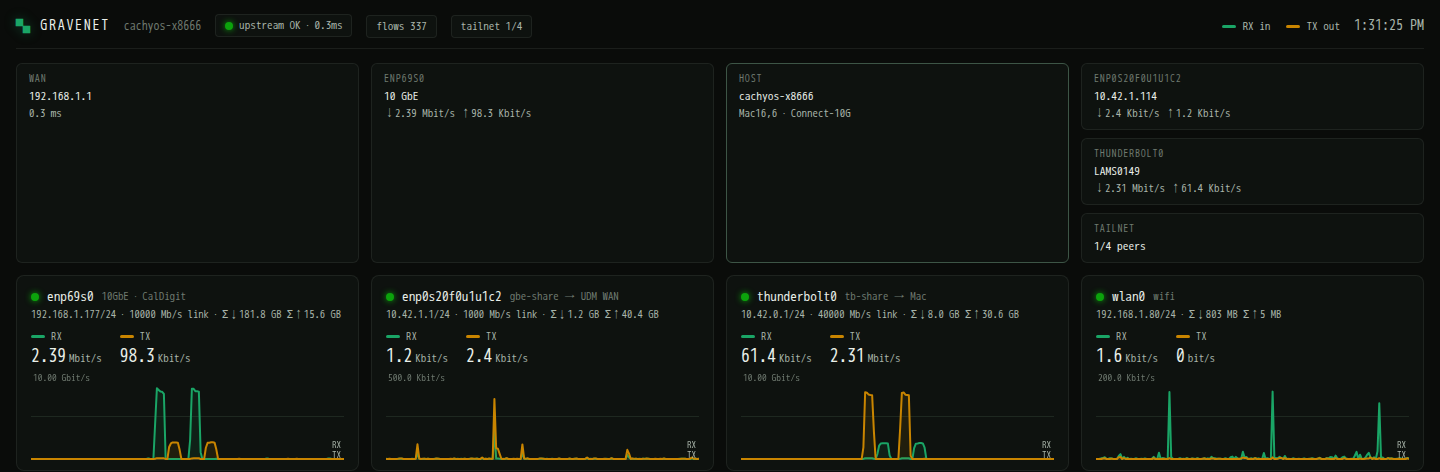
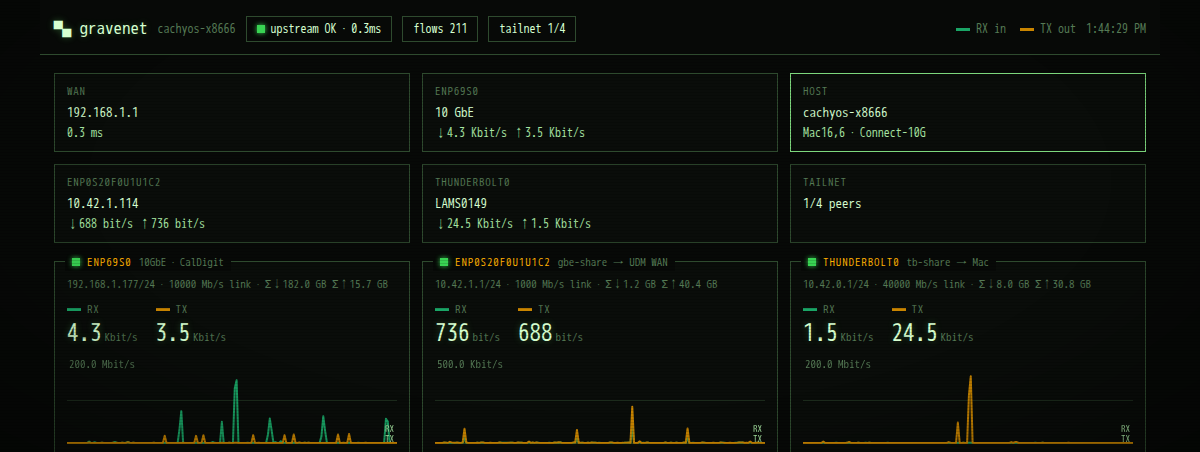
gravenet: adopt the grave-term skin (#128)
The /net page had its own dark-neutral theme; it now uses the same
tokens and chrome as the gravedecay dashboard — phosphor ink, amber
panel titles sitting on TUI borders, status squares, scanlines +
vignette, 1120px centered column, bracket-style badges. Chart series
stay the validated darker steps of the skin's green/amber (the raw
accents are too bright to pass the CVD/lightness gate on this
surface). README screenshot re-shot to match.

diff --git a/web/net/index.html b/web/net/index.html
@@ -5,131 +5,108 @@
 <meta name="viewport" content="width=device-width, initial-scale=1">
 <title>gravenet</title>
 <style>
-  /* dark-only by design — phosphor ops console */
-  :root {
-    color-scheme: dark;
-    --page:       #0a0c0a;
-    --surface:    #0e120f;   /* validated chart surface */
-    --surface-2:  #121712;
-    --ink:        #e9efe9;
-    --ink-2:      #a9b5aa;
-    --ink-mute:   #6f7a70;
-    --grid:       #1e2820;   /* hairline */
-    --baseline:   #2a362d;
-    --border:     rgba(233,239,233,0.08);
-    --rx:         #1aa566;   /* series 1 — validated */
-    --tx:         #c98500;   /* series 2 — validated */
-    --good:       #0ca30c;
-    --warn:       #fab219;
-    --crit:       #d03b3b;
-    --chrome:     #3d5546;   /* desaturated accent for UI chrome only */
-    font-size: 14px;
-  }
-  * { box-sizing: border-box; margin: 0; }
-  body {
-    background: var(--page); color: var(--ink);
-    font-family: ui-monospace, "JetBrains Mono", "SF Mono", Menlo, monospace;
-    padding: 14px 16px 28px;
-  }
-  header {
-    display: flex; align-items: baseline; gap: 14px; flex-wrap: wrap;
-    padding-bottom: 10px; border-bottom: 1px solid var(--border); margin-bottom: 14px;
-  }
-  .brand { font-weight: 700; letter-spacing: .12em; }
-  .brand .g { color: var(--rx); text-shadow: 0 0 12px rgba(26,165,102,.35); }
-  .sub { color: var(--ink-mute); font-size: .85rem; }
-  .spacer { flex: 1; }
-  .pill {
-    display: inline-flex; align-items: center; gap: 6px;
-    border: 1px solid var(--border); border-radius: 4px;
-    padding: 3px 9px; font-size: .8rem; color: var(--ink-2); background: var(--surface);
-  }
-  .dot { width: 8px; height: 8px; border-radius: 50%; display: inline-block; }
-  .dot.good { background: var(--good); box-shadow: 0 0 6px var(--good); }
-  .dot.crit { background: var(--crit); box-shadow: 0 0 6px var(--crit); }
-  .dot.warn { background: var(--warn); }
-  #clock { color: var(--ink-2); font-variant-numeric: tabular-nums; }
+/* grave-term — the gravedecay terminal skin (see dashboard/gravedecay.py).
+   Same tokens, panels-with-border-titles, scanlines, status squares.
+   Series colors are darker steps of the skin's green/amber, validated for
+   CVD separation + contrast on this surface (dataviz gate). */
+:root{
+  --page:#070907; --surface:#0a0d0a; --inset:#050705;
+  --ink:#d6ffd0; --ink-2:#a8e6a3; --muted:#557a55; --hairline:#1c2b1c;
+  --ring:#2e4a2e; --title:#ffb000;
+  --accent:#ffb000; --accent-soft:#7dd87d;
+  --good:#39d353; --warn:#ffb000; --crit:#ff5f56;
+  --glow:0 0 7px rgba(120,255,120,.28);
+  --rx:#1aa566; --tx:#c98500;         /* chart series — validated pair */
+  --grid:#1c2b1c; --baseline:#2e4a2e; /* chart chrome, read by the JS */
+}
+*{box-sizing:border-box;margin:0;-webkit-tap-highlight-color:transparent}
+html{-webkit-text-size-adjust:100%}
+body{background:var(--page);color:var(--ink-2);
+  font:13.5px/1.5 ui-monospace,'JetBrains Mono','Fira Code',Menlo,Consolas,monospace;
+  padding:0 max(14px,env(safe-area-inset-left)) calc(24px + env(safe-area-inset-bottom))
+    max(14px,env(safe-area-inset-right));max-width:1120px;min-width:0;margin:0 auto}
+/* CRT: fixed scanlines + vignette, zero layout cost */
+body::before{content:'';position:fixed;inset:0;pointer-events:none;z-index:99;
+  background:repeating-linear-gradient(0deg,transparent 0 2px,rgba(0,0,0,.13) 2px 3px)}
+body::after{content:'';position:fixed;inset:0;pointer-events:none;z-index:98;
+  background:radial-gradient(ellipse at 50% 40%,transparent 60%,rgba(0,0,0,.32))}
+::selection{background:var(--accent);color:#000}
+h1{font-size:17px;font-weight:700;color:var(--ink);text-shadow:var(--glow);white-space:nowrap}
+.topbar{position:sticky;top:0;z-index:101;display:flex;flex-wrap:wrap;gap:10px;align-items:center;
+  background:var(--page);margin:0 -14px 18px;padding:16px 14px 12px;
+  border-bottom:1px solid var(--ring)}
+.topbar .meta{color:var(--muted);font-size:12px;min-width:0;
+  white-space:nowrap;overflow:hidden;text-overflow:ellipsis}
+.spacer{flex:1}
+.badge{display:inline-flex;align-items:center;gap:6px;padding:3px 10px;
+  border:1px solid var(--ring);font-size:12px;font-weight:700;color:var(--ink)}
+#clock{color:var(--muted);font-size:12px;font-variant-numeric:tabular-nums}
+/* status squares (■), not dots */
+.dot{display:inline-block;width:8px;height:8px;flex:none}
+.dot.good{background:var(--good);box-shadow:0 0 5px var(--good)}
+.dot.crit{background:var(--crit);box-shadow:0 0 5px var(--crit)}
+.dot.warn{background:var(--warn);box-shadow:0 0 5px var(--warn)}
+/* legend */
+.legend{display:flex;gap:14px;align-items:center;color:var(--muted);font-size:12px}
+.swatch{display:inline-block;width:14px;height:3px;vertical-align:middle;margin-right:6px}
 
-  /* topology flow — same grid tracks as #cards so the columns align exactly;
-     flow arrows live in the grid gaps (absolutely positioned) so they cost
-     no layout space and can't nudge the columns out of alignment */
-  #topo {
-    display: grid; gap: 12px;
-    grid-template-columns: repeat(auto-fill, minmax(340px, 1fr));
-    margin-bottom: 12px; font-size: .82rem;
-  }
-  .node {
-    background: var(--surface); border: 1px solid var(--border); border-radius: 6px;
-    padding: 8px 12px; position: relative; min-width: 0; overflow: hidden;
-  }
-  .node .t { color: var(--ink-mute); font-size: .72rem; letter-spacing: .08em; text-transform: uppercase; }
-  .node .v { margin-top: 3px; white-space: nowrap; overflow: hidden; text-overflow: ellipsis; }
-  .node .r { color: var(--ink-2); font-variant-numeric: tabular-nums; font-size: .78rem; margin-top: 2px; }
-  .cell { position: relative; min-width: 0; }
-  .cell > .node { height: 100%; }
-  .host { border-color: var(--chrome); }
-  .chipcol { display: flex; flex-direction: column; gap: 8px; }
-  .chipcol .node { height: auto; }
+/* topology strip — stat tiles on the card grid's tracks */
+#topo{display:grid;gap:12px;grid-template-columns:repeat(auto-fill,minmax(300px,1fr));
+  margin-bottom:18px;font-size:13px}
+.cell{position:relative;min-width:0}
+.cell>.node{height:100%}
+.node{background:var(--surface);border:1px solid var(--ring);padding:9px 12px;min-width:0;overflow:hidden}
+.node .t{color:var(--muted);font-size:11px;letter-spacing:.07em;text-transform:uppercase}
+.node .v{margin-top:3px;color:var(--ink);font-weight:700;
+  white-space:nowrap;overflow:hidden;text-overflow:ellipsis}
+.node .r{color:var(--ink-2);font-variant-numeric:tabular-nums;font-size:12px;margin-top:2px}
+.host{border-color:var(--accent-soft)}
 
-  /* legend */
-  .legend { display: flex; gap: 16px; align-items: center; color: var(--ink-2); font-size: .8rem; }
-  .swatch { display: inline-block; width: 14px; height: 3px; border-radius: 2px; vertical-align: middle; margin-right: 6px; }
+/* interface cards — TUI panels, title on the border */
+#cards{display:grid;gap:18px 12px;grid-template-columns:repeat(auto-fill,minmax(300px,1fr))}
+.card{position:relative;background:var(--surface);border:1px solid var(--ring);
+  padding:16px 12px 10px;min-width:0}
+.card h2{position:absolute;top:-8px;left:10px;background:var(--page);padding:0 7px;
+  max-width:calc(100% - 20px);overflow:hidden;text-overflow:ellipsis;white-space:nowrap;
+  display:flex;gap:7px;align-items:center;
+  font-size:11px;font-weight:700;color:var(--title);letter-spacing:.08em;text-transform:uppercase}
+.card .role{color:var(--muted);font-weight:400;text-transform:none;letter-spacing:0}
+.card .meta{color:var(--muted);font-size:11px;margin-top:-2px}
+.rates{display:flex;gap:18px;margin:8px 0 4px}
+.rate .lbl{font-size:11px;color:var(--muted);letter-spacing:.07em;text-transform:uppercase}
+.rate .val{font-size:23px;font-weight:700;color:var(--ink);text-shadow:var(--glow);
+  font-variant-numeric:tabular-nums}
+.rate .unit{font-size:11px;color:var(--muted);margin-left:3px}
+.chartwrap{position:relative;height:88px;margin-top:4px}
+canvas{width:100%;height:100%;display:block}
+.ymax{position:absolute;top:0;left:2px;font-size:11px;color:var(--muted);pointer-events:none}
+.tip{position:absolute;pointer-events:none;z-index:5;display:none;
+  background:var(--inset);border:1px solid var(--ring);
+  padding:6px 9px;font-size:12px;color:var(--ink);white-space:nowrap}
+.tip .row{display:flex;gap:10px;justify-content:space-between;font-variant-numeric:tabular-nums}
+.tip .k{color:var(--muted)}
 
-  /* interface cards */
-  #cards {
-    display: grid; gap: 12px;
-    grid-template-columns: repeat(auto-fill, minmax(340px, 1fr));
-  }
-  .card {
-    background: var(--surface); border: 1px solid var(--border); border-radius: 8px;
-    padding: 12px 14px 10px; position: relative;
-  }
-  .card h2 { font-size: .95rem; font-weight: 700; display: flex; gap: 8px; align-items: center; }
-  .card .role { color: var(--ink-mute); font-size: .78rem; }
-  .card .meta { color: var(--ink-2); font-size: .76rem; margin-top: 2px; }
-  .rates { display: flex; gap: 18px; margin: 8px 0 4px; }
-  .rate .lbl { font-size: .72rem; color: var(--ink-2); letter-spacing: .06em; }
-  .rate .val { font-size: 1.25rem; font-variant-numeric: tabular-nums; }
-  .rate .unit { font-size: .78rem; color: var(--ink-2); margin-left: 3px; }
-  .chartwrap { position: relative; height: 88px; margin-top: 4px; }
-  canvas { width: 100%; height: 100%; display: block; }
-  .ymax { position: absolute; top: 0; left: 2px; font-size: .68rem; color: var(--ink-mute); pointer-events: none; }
-
-  .tip {
-    position: absolute; pointer-events: none; z-index: 5; display: none;
-    background: var(--surface-2); border: 1px solid var(--border); border-radius: 5px;
-    padding: 6px 9px; font-size: .74rem; color: var(--ink); white-space: nowrap;
-    box-shadow: 0 4px 16px rgba(0,0,0,.5);
-  }
-  .tip .row { display: flex; gap: 8px; justify-content: space-between; font-variant-numeric: tabular-nums; }
-  .tip .k { color: var(--ink-2); }
-
-  /* clients table */
-  section h3 {
-    font-size: .8rem; letter-spacing: .1em; text-transform: uppercase;
-    color: var(--ink-mute); margin: 22px 0 8px;
-  }
-  table { width: 100%; border-collapse: collapse; font-size: .82rem; }
-  th {
-    text-align: left; color: var(--ink-mute); font-weight: 400; font-size: .72rem;
-    letter-spacing: .08em; text-transform: uppercase; padding: 4px 10px;
-    border-bottom: 1px solid var(--grid);
-  }
-  td {
-    padding: 5px 10px; border-bottom: 1px solid var(--grid);
-    font-variant-numeric: tabular-nums; color: var(--ink-2);
-  }
-  td.hostn { color: var(--ink); }
-  footer { margin-top: 24px; color: var(--ink-mute); font-size: .72rem; }
+/* clients — a panel like the rest */
+.panel{position:relative;background:var(--surface);border:1px solid var(--ring);
+  padding:16px 12px 10px;min-width:0;margin-top:24px}
+.panel>h2{position:absolute;top:-8px;left:10px;background:var(--page);padding:0 7px;
+  font-size:11px;font-weight:700;color:var(--title);letter-spacing:.08em;text-transform:uppercase}
+table{width:100%;max-width:100%;border-collapse:collapse;font-size:13px}
+th{text-align:left;color:var(--muted);font-weight:400;font-size:11px;
+  letter-spacing:.07em;text-transform:uppercase;padding:2px 8px 4px 0}
+td{min-width:0;padding:4px 8px 4px 0;border-top:1px dashed var(--hairline);
+  vertical-align:top;font-variant-numeric:tabular-nums;color:var(--ink-2);overflow-wrap:anywhere}
+td.hostn{color:var(--ink);font-weight:700;white-space:nowrap;padding-right:14px}
+footer{margin-top:22px;color:var(--muted);font-size:11px;text-align:center}
 </style>
 </head>
 <body>
-<header>
-  <span class="brand"><span class="g">▚</span> GRAVENET</span>
-  <span class="sub" id="hostname">—</span>
-  <span class="pill" id="upstream"><span class="dot warn"></span>upstream —</span>
-  <span class="pill" id="conntrack">flows —</span>
-  <span class="pill" id="tspill">tailnet —</span>
+<header class="topbar">
+  <h1>▚ gravenet</h1>
+  <span class="meta" id="hostname">—</span>
+  <span class="badge" id="upstream"><span class="dot warn"></span>upstream —</span>
+  <span class="badge" id="conntrack">flows —</span>
+  <span class="badge" id="tspill">tailnet —</span>
   <span class="spacer"></span>
   <span class="legend">
     <span><span class="swatch" style="background:var(--rx)"></span>RX in</span>
@@ -141,22 +118,21 @@
 <div id="topo"></div>
 <div id="cards"></div>
 
-<section>
-  <h3>clients</h3>
+<div class="panel">
+  <h2>dhcp clients</h2>
   <table>
     <thead><tr><th>host</th><th>ip</th><th>mac</th><th>iface</th><th>neigh</th><th>lease left</th></tr></thead>
     <tbody id="clientrows"><tr><td colspan="6">waiting for data…</td></tr></tbody>
   </table>
-</section>
+</div>
 
 <footer id="foot">gravenet · sse: connecting…</footer>
 
 <script>
 "use strict";
-const RX = getComputedStyle(document.documentElement).getPropertyValue("--rx").trim();
-const TX = getComputedStyle(document.documentElement).getPropertyValue("--tx").trim();
-const GRID = getComputedStyle(document.documentElement).getPropertyValue("--grid").trim();
-const INK2 = getComputedStyle(document.documentElement).getPropertyValue("--ink-2").trim();
+const css = k => getComputedStyle(document.documentElement).getPropertyValue(k).trim();
+const RX = css("--rx"), TX = css("--tx"), GRID = css("--grid"),
+      INK2 = css("--ink-2"), SURFACE = css("--surface");
 const WINDOW = 180;
 
 const hist = [];            // ring of snapshots
@@ -242,7 +218,7 @@ function drawCard(name, c) {
   // recessive grid: mid + baseline
   ctx.strokeStyle = GRID; ctx.lineWidth = 1;
   ctx.beginPath(); ctx.moveTo(0, h / 2 + .5); ctx.lineTo(w, h / 2 + .5); ctx.stroke();
-  ctx.strokeStyle = getComputedStyle(document.documentElement).getPropertyValue("--baseline").trim();
+  ctx.strokeStyle = css("--baseline");
   ctx.beginPath(); ctx.moveTo(0, h - .5); ctx.lineTo(w, h - .5); ctx.stroke();
 
   const x = i => (i / (n - 1)) * w;
@@ -294,7 +270,7 @@ function drawCard(name, c) {
       for (const [si, color] of [[0, RX], [1, TX]]) {
         ctx.beginPath(); ctx.arc(px, y(view[idx][si]), 3.5, 0, 7);
         ctx.fillStyle = color; ctx.fill();
-        ctx.lineWidth = 2; ctx.strokeStyle = "#0e120f"; ctx.stroke();
+        ctx.lineWidth = 2; ctx.strokeStyle = SURFACE; ctx.stroke();
       }
       const snap = hist[start + idx];
       const when = new Date(snap.t * 1000).toLocaleTimeString();
@@ -318,6 +294,7 @@ function renderTopo(s) {
   const ts = s.tailscale || {};
   const clientsBy = {};
   (s.clients || []).forEach(c => (clientsBy[c.iface] = clientsBy[c.iface] || []).push(c));
+
   let html = `
     <div class="cell">
       <div class="node"><div class="t">wan</div><div class="v">${up.gw || "?"}</div>
@@ -328,16 +305,14 @@ function renderTopo(s) {
         <div class="r">↓${fmt2(upIf.rx_bps || 0)} ↑${fmt2(upIf.tx_bps || 0)}</div></div></div>
     <div class="cell">
       <div class="node host"><div class="t">host</div><div class="v" id="topohost">${s.host || "grave"}</div>
-        <div class="r">${(s.thunderbolt || []).map(d => d.device).join(" · ") || ""}</div></div></div>
-    <div class="cell chipcol">`;
+        <div class="r">${(s.thunderbolt || []).map(d => d.device).join(" · ") || ""}</div></div></div>`;
   for (const [name, i] of shares) {
     const cl = (clientsBy[name] || []).map(c => c.host || c.ip).join(", ") || "no lease";
-    html += `<div class="node"><div class="t">${name}</div><div class="v">${cl}</div>
-      <div class="r">↓${fmt2(i.tx_bps)} ↑${fmt2(i.rx_bps)}</div></div>`;
+    html += `<div class="cell"><div class="node"><div class="t">${name}</div><div class="v">${cl}</div>
+      <div class="r">↓${fmt2(i.tx_bps)} ↑${fmt2(i.rx_bps)}</div></div></div>`;
   }
   if (s.tailscale)
-    html += `<div class="node"><div class="t">tailnet</div><div class="v">${ts.online}/${ts.total} peers</div></div>`;
-  html += `</div>`;
+    html += `<div class="cell"><div class="node"><div class="t">tailnet</div><div class="v">${ts.online}/${ts.total} peers</div></div></div>`;
   document.getElementById("topo").innerHTML = html;
 }
 